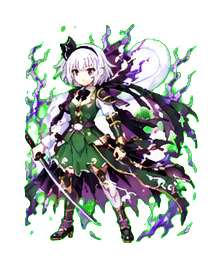
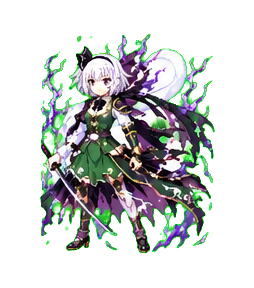
polish: refine Youmu boss animation sizing

diff --git a/scripts/tools/generate_touhou_boss_animation_frames.py b/scripts/tools/generate_touhou_boss_animation_frames.py
@@ -21,7 +21,7 @@ import subprocess
 import sys
 from typing import Iterable
 
-from PIL import Image, ImageChops, ImageStat
+from PIL import Image, ImageChops, ImageFilter, ImageStat
 
 
 ROOT = Path(__file__).resolve().parents[2]
@@ -182,6 +182,70 @@ def remove_external_white_halo(image: Image.Image) -> Image.Image:
             r, g, b, _a = pixels[x, y]
             pixels[x, y] = (r, g, b, 0)
     return cleaned
+
+
+def soften_youmu_edge_fringe(image: Image.Image) -> Image.Image:
+    """Dim only Youmu's outer sticker-like whites without deleting her white costume."""
+    cleaned = image.copy().convert("RGBA")
+    edge_mask = cleaned.getchannel("A").point(lambda value: 255 if value <= 10 else 0).filter(ImageFilter.MaxFilter(5))
+    source = cleaned.load()
+    out = cleaned.copy()
+    pixels = out.load()
+    for y in range(cleaned.height):
+        for x in range(cleaned.width):
+            if edge_mask.getpixel((x, y)) == 0:
+                continue
+            r, g, b, a = source[x, y]
+            if a <= 8:
+                continue
+            max_channel = max(r, g, b)
+            min_channel = min(r, g, b)
+            if max_channel < 224 or max_channel - min_channel > 34:
+                continue
+            has_darker_neighbor = False
+            for ny in range(max(0, y - 2), min(cleaned.height, y + 3)):
+                for nx in range(max(0, x - 2), min(cleaned.width, x + 3)):
+                    if nx == x and ny == y:
+                        continue
+                    nr, ng, nb, na = source[nx, ny]
+                    neighbor_max = max(nr, ng, nb)
+                    neighbor_min = min(nr, ng, nb)
+                    if na >= 175 and (neighbor_max <= 205 or (neighbor_max <= 218 and neighbor_max - neighbor_min > 18)):
+                        has_darker_neighbor = True
+                        break
+                if has_darker_neighbor:
+                    break
+            if not has_darker_neighbor:
+                continue
+            pixels[x, y] = (int(r * 0.82), int(g * 0.9), int(b * 0.96), max(0, int(a * 0.62)))
+    return out
+
+
+def normalize_shared_canvas(frames: list[Image.Image], padding: int = 4) -> list[Image.Image]:
+    max_w = max(frame.width for frame in frames) + padding * 2
+    max_h = max(frame.height for frame in frames) + padding * 2
+    max_w += max_w % 2
+    max_h += max_h % 2
+    normalized: list[Image.Image] = []
+    for frame in frames:
+        bounds = image_bbox(frame)
+        out = Image.new("RGBA", (max_w, max_h), (255, 255, 255, 0))
+        if bounds is None:
+            out.alpha_composite(frame, ((max_w - frame.width) // 2, (max_h - frame.height) // 2))
+        else:
+            center_x = (bounds[0] + bounds[2]) * 0.5
+            center_y = (bounds[1] + bounds[3]) * 0.5
+            out.alpha_composite(frame, (round(max_w * 0.5 - center_x), round(max_h * 0.5 - center_y)))
+        normalized.append(out)
+    return normalized
+
+
+def postprocess_frames_for_boss(folder_name: str, frames: list[Image.Image]) -> list[Image.Image]:
+    processed = [remove_external_white_halo(frame) for frame in frames]
+    if folder_name == "youmu":
+        processed = [soften_youmu_edge_fringe(frame) for frame in processed]
+        processed = normalize_shared_canvas(processed)
+    return processed
 
 
 def local_expand(keyframes: list[Image.Image]) -> list[Image.Image]:
@@ -423,7 +487,7 @@ def generated_sheet_is_usable(generated: list[Image.Image], keyframes: list[Imag
 
 def save_frames(frames: Iterable[Image.Image], folder: Path) -> None:
     for index, frame in enumerate(frames):
-        remove_external_white_halo(frame).save(folder / f"frame_{index:02d}.png")
+        frame.save(folder / f"frame_{index:02d}.png")
     for stale in folder.glob("frame_*.webp"):
         stale.unlink()
 
@@ -443,6 +507,21 @@ def make_contact_sheet(folder_name: str, frames: list[Image.Image]) -> Path:
 
 
 def write_metadata(records: list[dict]) -> None:
+    if COMMITTED_METADATA.exists():
+        existing_records = json.loads(COMMITTED_METADATA.read_text(encoding="utf-8"))
+        merged = {str(record.get("kind", "")): record for record in existing_records}
+        for record in records:
+            kind = str(record.get("kind", ""))
+            previous = dict(merged.get(kind, {}))
+            for optional_key in ("image2_sheet", "contact_sheet"):
+                if not str(record.get(optional_key, "")) and str(previous.get(optional_key, "")):
+                    record[optional_key] = previous[optional_key]
+            merged[kind] = record
+        ordered: list[dict] = []
+        for kind, _folder_name, _display_name in BOSSES:
+            if kind in merged:
+                ordered.append(merged[kind])
+        records = ordered
     OUTPUT_ROOT.mkdir(parents=True, exist_ok=True)
     path = OUTPUT_ROOT / "touhou-boss-animation-sources.json"
     path.write_text(json.dumps(records, ensure_ascii=False, indent=2) + "\n", encoding="utf-8")
@@ -472,6 +551,7 @@ def main() -> int:
                 raise RuntimeError(f"gpt-image-2 did not produce a sheet for {folder_name}")
         if frames is None:
             frames = local_expand(keyframes)
+        frames = postprocess_frames_for_boss(folder_name, frames)
         save_frames(frames, folder)
         contact_path = None if args.no_contact_sheets else make_contact_sheet(folder_name, frames)
         records.append(

diff --git a/RELEASE_NOTES_v1.0.82.md b/RELEASE_NOTES_v1.0.82.md
@@ -1,0 +1,7 @@
+# v1.0.82
+
+- Refined Youmu's `gpt-image-2` boss frames so the shared canvas stays stable and the sprite no longer jitters between differently cropped frames.
+- Reduced Youmu's in-game draw scale to avoid the oversized look introduced by the previous image2 animation pass.
+- Tightened Youmu's skill frame selection so dash, slash, wraith, and finale states animate within coherent frame ranges instead of jumping between unrelated poses.
+- Preserved Youmu's white hair, outfit, and half-phantom while softening only the outer sticker-like edge fringe.
+- Updated the Touhou boss image2 generation script so targeted reruns keep the full 15-boss metadata record.
